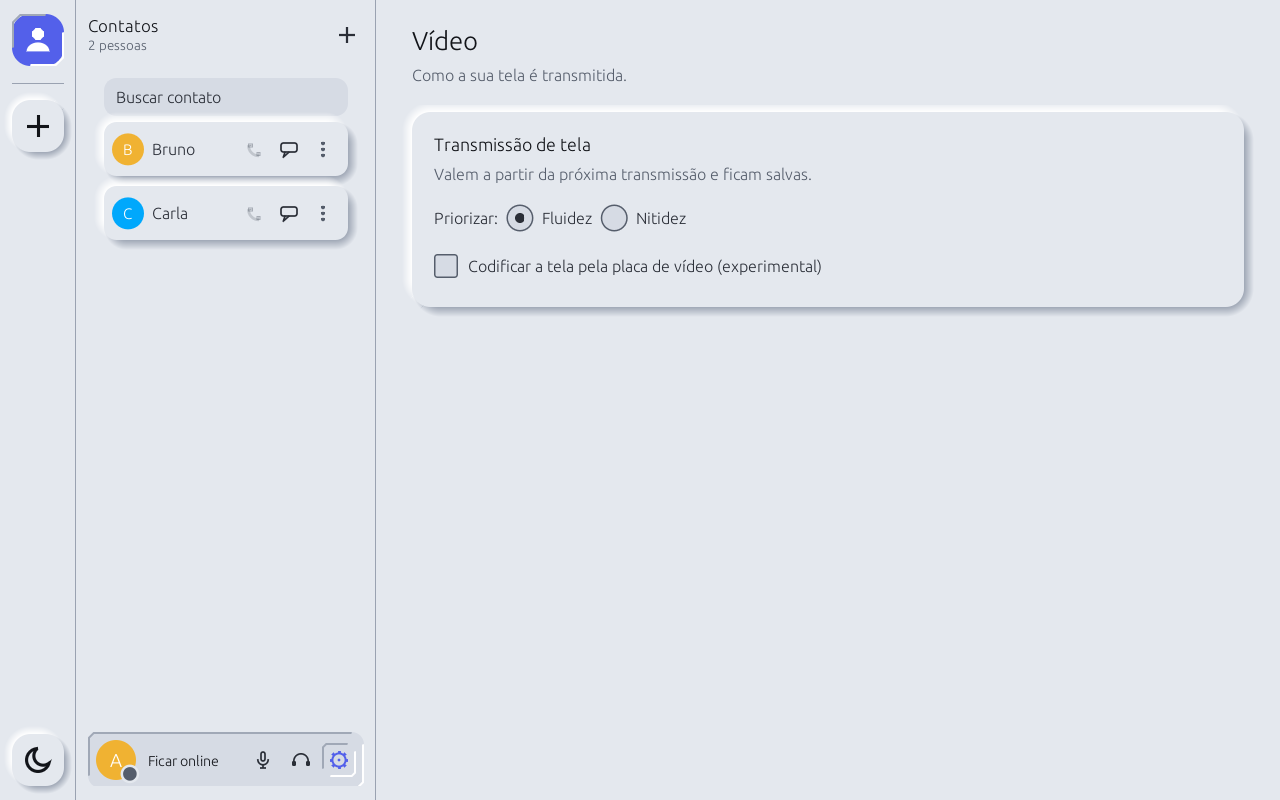
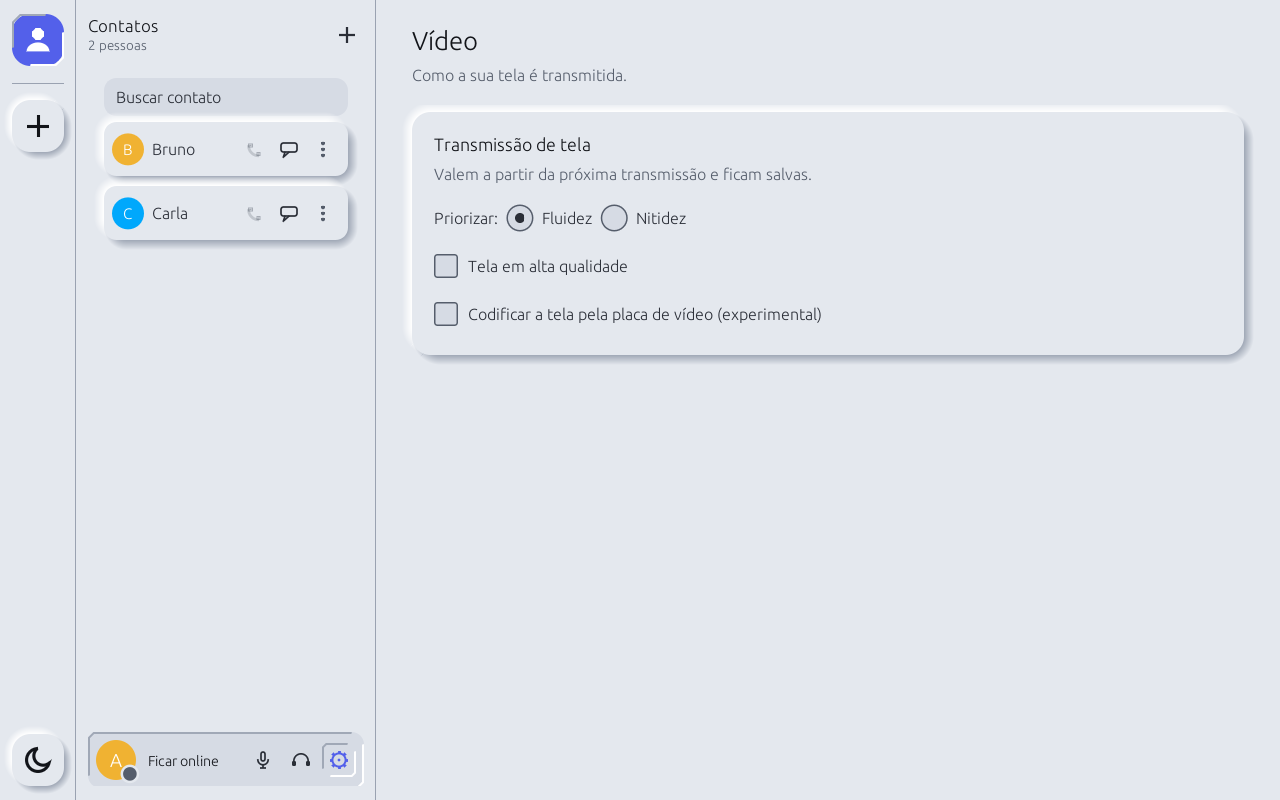
Tela em alta qualidade: slot de 1 ms com cover, o dobro da banda de vídeo sem mudar o que o observador vê
O teto da tela era o slot fixo de 2 ms (~85 kB/s, ~0,6 Mbps de vídeo). A nova opção usa 1 ms mantendo cover e ritmo constante, então o movimento da imagem continua invisível; o custo é 256 kB/s de upload fixos ao transmitir. Vale com ou sem 2 relays e só para a tela (o arquivo tem file_slot próprio). 1 ms é o piso porque o cover do circuito conta em ms. Priorizar velocidade vence quando efetiva. A rajada de recuperação do slot passa a valer só para o slot sem cover.

Changed region(s): [[0.3125, 0.375, 1.0, 0.4375], [0.3438, 0.4375, 0.9688, 0.4688], [0.375, 0.3125, 0.6562, 0.3438]]

diff --git a/tests/node.rs b/tests/node.rs
@@ -817,14 +817,14 @@ async fn an_anchor_lets_two_moved_contacts_find_each_other() {
 
 /// Liga B a A, A transmite a tela e B tem de receber o quadro (opção "2 relays" desligada; ligada, a tela só vai por
 /// encontro, testada à parte). Devolve o caminho tomado e se o quadro chegou igual.
-async fn screen_arrives(two_relays: bool, speed_first: bool) -> (PathMode, bool) {
+async fn screen_arrives(two_relays: bool, speed_first: bool, hq_screen: bool) -> (PathMode, bool) {
     use clam::phone::ScreenEvent;
     let (sa, sb, sc) = (key(), key(), key());
     let (pa, pb, pc) = (*PublicKey::from(&sa).as_bytes(), *PublicKey::from(&sb).as_bytes(), *PublicKey::from(&sc).as_bytes());
     let c = Node::start(fixed(sc, free_port(), vec![pa, pb])).await.unwrap();
     // O relay de C só entra como primeiro salto se A já o conhece (`known`).
-    let a = Node::start(NodeConfig { two_relays, speed_first, known: vec![(pc, c.relay_info().unwrap())], ..fixed(sa, free_port(), vec![pb, pc]) }).await.unwrap();
-    let b = Node::start(NodeConfig { speed_first, ..fixed(sb, free_port(), vec![pa, pc]) }).await.unwrap();
+    let a = Node::start(NodeConfig { two_relays, speed_first, hq_screen, known: vec![(pc, c.relay_info().unwrap())], ..fixed(sa, free_port(), vec![pb, pc]) }).await.unwrap();
+    let b = Node::start(NodeConfig { speed_first, hq_screen, ..fixed(sb, free_port(), vec![pa, pc]) }).await.unwrap();
     // Quem liga é B (opção desligada): com "2 relays" ligada em A a chamada dele seria sempre por encontro, e este teste
     // é do caminho da tela, que segue o relay guardado de B.
     b.add_hint(pa, a.relay_info().unwrap());
@@ -857,16 +857,36 @@ async fn screen_arrives(two_relays: bool, speed_first: bool) -> (PathMode, bool)
     (path, got.as_deref() == Some(frame.as_slice()))
 }
 
+/// "Tela em alta qualidade": o quadro chega, com ou sem "2 relays", no slot de 1 ms e com cover.
+#[tokio::test]
+async fn the_screen_arrives_with_hq_screen_on_and_off() {
+    assert_eq!(screen_arrives(false, false, true).await, (PathMode::Direct, true));
+}
+
+/// Cada opção escolhe o slot certo: alta qualidade só mexe na tela, velocidade vence e mexe no arquivo.
+#[tokio::test]
+async fn slots_follow_the_options() {
+    use clam::phone::{HQ_SCREEN_SLOT, OPEN_SCREEN_SLOT, SCREEN_SLOT};
+    let slots = |speed_first, hq_screen| async move {
+        let n = Node::start(NodeConfig { speed_first, hq_screen, ..fixed(key(), free_port(), vec![]) }).await.unwrap();
+        (n.dialer().screen_slot(), n.dialer().file_slot())
+    };
+    assert_eq!(slots(false, false).await, (SCREEN_SLOT, SCREEN_SLOT));
+    assert_eq!(slots(false, true).await, (HQ_SCREEN_SLOT, SCREEN_SLOT), "alta qualidade não toca o arquivo");
+    assert_eq!(slots(true, false).await, (OPEN_SCREEN_SLOT, OPEN_SCREEN_SLOT));
+    assert_eq!(slots(true, true).await, (OPEN_SCREEN_SLOT, OPEN_SCREEN_SLOT), "velocidade vence");
+}
+
 /// Opção desligada: a tela vai direto ao relay do contato, sem relay no meio.
 #[tokio::test]
 async fn the_screen_goes_straight_to_the_contact_when_two_relays_is_off() {
-    assert_eq!(screen_arrives(false, false).await, (PathMode::Direct, true));
+    assert_eq!(screen_arrives(false, false, false).await, (PathMode::Direct, true));
 }
 
 /// "Priorizar velocidade" (chamada e tela sem cover, slot rápido): a chamada abre e o quadro de tela chega igual.
 #[tokio::test]
 async fn the_call_and_the_screen_work_with_speed_first() {
-    assert_eq!(screen_arrives(false, true).await, (PathMode::Direct, true));
+    assert_eq!(screen_arrives(false, true, false).await, (PathMode::Direct, true));
 }
 
 /// Opção ligada e o contato sem pontos de introdução: o circuito de tela não abre e não usa o relay guardado dele (que
@@ -951,6 +971,10 @@ struct Blind {
 }
 
 async fn blind_pair() -> Blind {
+    blind_pair_hq(false).await
+}
+
+async fn blind_pair_hq(hq_screen: bool) -> Blind {
     use clam::rendezvous::DhtOptions;
     let testnet = Box::leak(Box::new(mainline::Testnet::new(5).unwrap()));
     let dht = || Some(DhtOptions { bootstrap: testnet.bootstrap.clone(), bind: Some(std::net::Ipv4Addr::LOCALHOST), circuit: false });
@@ -964,7 +988,7 @@ async fn blind_pair() -> Blind {
         relays.push((p, n.relay_info().unwrap()));
         others.push(n);
     }
-    let cfg = |s, contacts| NodeConfig { updates: false, two_relays: true, dht: dht(), known: relays.clone(), ..fixed(s, free_port(), contacts) };
+    let cfg = |s, contacts| NodeConfig { updates: false, two_relays: true, hq_screen, dht: dht(), known: relays.clone(), ..fixed(s, free_port(), contacts) };
     let a = Node::start(cfg(sa, vec![pb, pc, pd, pe])).await.unwrap();
     let b = Node::start(cfg(sb, vec![pa, pc, pd, pe])).await.unwrap();
     // Cada um sobe o serviço e grava a presença em segundo plano: espera os dois acharem os pontos um do outro.
@@ -1007,8 +1031,19 @@ async fn chat_and_files_with_two_relays_on_arrive_without_knowing_the_address() 
 /// Com "2 relays" ligada, a tela de A chega a B por encontro (um circuito só dela, com o cover no ritmo dos slots).
 #[tokio::test]
 async fn the_screen_with_two_relays_on_arrives_without_knowing_the_address() {
+    screen_over_two_relays(false).await;
+}
+
+/// "Tela em alta qualidade" também vale com "2 relays" ligada: o quadro chega por encontro, com cover.
+#[tokio::test]
+async fn the_hq_screen_arrives_with_two_relays_on() {
+    screen_over_two_relays(true).await;
+}
+
+async fn screen_over_two_relays(hq_screen: bool) {
     use clam::phone::ScreenEvent;
-    let Blind { a, mut b, pb, _others, .. } = blind_pair().await;
+    let Blind { a, mut b, pb, _others, .. } = blind_pair_hq(hq_screen).await;
+    assert_eq!(a.dialer().hq_screen(), hq_screen);
     let answer = tokio::spawn(async move {
         let inc = timeout(Duration::from_secs(60), b.next_incoming()).await.unwrap().unwrap();
         (inc.accept(Mulaw::new()).await.unwrap(), b)

diff --git a/src/node/dialer.rs b/src/node/dialer.rs
@@ -15,7 +15,7 @@ use crate::{
         codec::Codec,
         keys::CallKeys,
     },
-    phone::{ActiveCall, AddressUpdate, CallError, PhoneLink, ScreenShare, call_linked, screen_client_options, share_screen_slot, OPEN_SCREEN_SLOT, SCREEN_SLOT},
+    phone::{ActiveCall, AddressUpdate, CallError, PhoneLink, ScreenShare, call_linked, screen_client_options, screen_client_options_hq, share_screen_slot, HQ_SCREEN_SLOT, OPEN_SCREEN_SLOT, SCREEN_SLOT},
     rendezvous::Rendezvous,
     transport::{CircuitClient, ClientOptions},
 };
@@ -61,6 +61,8 @@ pub struct Dialer {
     pub(super) two_relays: bool,
     /// "Priorizar velocidade" já efetiva (veja [`NodeConfig::speed_first`]): só vale com "2 relays" desligada.
     pub(super) speed_first: bool,
+    /// "Tela em alta qualidade" (veja [`NodeConfig::hq_screen`]): vale com ou sem "2 relays".
+    pub(super) hq_screen: bool,
     /// Último carimbo de bate-papo usado (veja [`Dialer::next_chat_id`]).
     pub(super) chat_stamp: Arc<std::sync::atomic::AtomicU64>,
 }
@@ -263,7 +265,8 @@ impl Dialer {
     ///
     /// Como [`Self::share_screen`].
     pub async fn share_screen_keys(&self, peer: [u8; 32], keys: &CallKeys, wait: Duration) -> Result<ScreenShare, DialError> {
-        let (client, used) = self.open_circuit(&peer, screen_client_options).await?;
+        let options = if self.hq_screen() { screen_client_options_hq } else { screen_client_options };
+        let (client, used) = self.open_circuit(&peer, options).await?;
         let share = share_screen_slot(client, keys, wait, self.screen_slot()).await?;
         self.remember_used(&peer, used);
         Ok(share)
@@ -275,10 +278,29 @@ impl Dialer {
         self.speed_first
     }
 
-    /// Intervalo entre pacotes da tela e do arquivo: [`SCREEN_SLOT`] no ritmo constante, [`OPEN_SCREEN_SLOT`] com
-    /// "Priorizar velocidade". Quem codifica vídeo usa o mesmo valor em [`H264Encoder::bitrate_for`](crate::video::H264Encoder::bitrate_for).
+    /// Se "Tela em alta qualidade" está valendo: ligada e sem "Priorizar velocidade" efetiva (que já usa um slot menor).
+    #[must_use]
+    pub fn hq_screen(&self) -> bool {
+        self.hq_screen && !self.speed_first
+    }
+
+    /// Intervalo entre pacotes da tela: [`SCREEN_SLOT`] no ritmo constante, [`HQ_SCREEN_SLOT`] com "Tela em alta
+    /// qualidade" (ainda com cover) e [`OPEN_SCREEN_SLOT`] com "Priorizar velocidade". Quem codifica vídeo usa o mesmo
+    /// valor em [`H264Encoder::bitrate_for`](crate::video::H264Encoder::bitrate_for).
     #[must_use]
     pub fn screen_slot(&self) -> Duration {
+        if self.speed_first {
+            OPEN_SCREEN_SLOT
+        } else if self.hq_screen {
+            HQ_SCREEN_SLOT
+        } else {
+            SCREEN_SLOT
+        }
+    }
+
+    /// Intervalo entre pedaços de arquivo: só "Priorizar velocidade" o muda; a alta qualidade da tela não toca o arquivo.
+    #[must_use]
+    pub fn file_slot(&self) -> Duration {
         if self.speed_first { OPEN_SCREEN_SLOT } else { SCREEN_SLOT }
     }
 

diff --git a/examples/gui/conf.rs b/examples/gui/conf.rs
@@ -118,6 +118,8 @@ pub(crate) struct Form {
     /// Opção "Priorizar velocidade" (veja `NodeConfig::speed_first`): tira o ritmo constante de todos os fluxos. Só vale com
     /// "2 relays" desligada; desligada (padrão) mantém o tráfego constante.
     pub(crate) speed_first: bool,
+    /// Opção "Tela em alta qualidade" (veja `NodeConfig::hq_screen`): slot de 1 ms com cover. Vale ao reiniciar a conexão.
+    pub(crate) hq_screen: bool,
     /// Chaves bloqueadas, em hex (com `=nome` opcional) separadas por `;`: não voltam como contato sozinhas, por apresentação ou convite
     /// (veja `Node::block`). Só adicionar a chave de novo, de propósito, desbloqueia.
     pub(crate) blocked: String,
@@ -557,6 +559,7 @@ impl Form {
             // `dht_circuit` era a caixa própria da DHT; agora a opção é uma só, e quem a tinha ligada fica com "2 relays" ligada.
             two_relays: get("two_relays") == "1" || get("dht_circuit") == "1",
             speed_first: get("speed_first") == "1",
+            hq_screen: get("hq_screen") == "1",
             blocked: get("blocked"),
             light: match get("light").as_str() {
                 "1" => Some(true),
@@ -595,7 +598,7 @@ impl Form {
         let secret = self.secret_to_write(vault_set);
         let secret = secret.as_str();
         let text = format!(
-            "audio={}\nsecret={}\ncontacts={}\npeer={}\npublic_addr={}\nno_dht={}\nname={}\nintros={}\nno_anchor={}\ntwo_relays={}\nspeed_first={}\nscreen_sharp={}\nscreen_hardware={}\nno_screen_audio={}\nno_screen_hear={}\nanchors={}\ninput_dev={}\noutput_dev={}\nno_opus={}\nno_auto_online={}\nblocked={}\nlight={}\nmute_key={}\ndeafen_key={}\nauto_files={}\n{}",
+            "audio={}\nsecret={}\ncontacts={}\npeer={}\npublic_addr={}\nno_dht={}\nname={}\nintros={}\nno_anchor={}\ntwo_relays={}\nspeed_first={}\nhq_screen={}\nscreen_sharp={}\nscreen_hardware={}\nno_screen_audio={}\nno_screen_hear={}\nanchors={}\ninput_dev={}\noutput_dev={}\nno_opus={}\nno_auto_online={}\nblocked={}\nlight={}\nmute_key={}\ndeafen_key={}\nauto_files={}\n{}",
             u8::from(self.use_audio),
             secret,
             self.contacts.trim().replace('\n', ";"),
@@ -607,6 +610,7 @@ impl Form {
             u8::from(!self.anchor),
             u8::from(self.two_relays),
             u8::from(self.speed_first),
+            u8::from(self.hq_screen),
             u8::from(self.screen_sharp),
             u8::from(self.screen_hardware),
             u8::from(!self.screen_audio),
@@ -927,6 +931,7 @@ mod tests {
     fn speed_first_starts_off() {
         assert!(!Form::default().speed_first);
         assert!(!Form::first_run().speed_first);
+        assert!(!Form::default().hq_screen && !Form::first_run().hq_screen, "tela em alta qualidade também abre desligada");
     }
 
     #[test]

diff --git a/src/phone.rs b/src/phone.rs
@@ -65,6 +65,10 @@ pub const SCREEN_SLOT: Duration = Duration::from_millis(2);
 /// Intervalo entre pacotes da tela e do arquivo com "Priorizar velocidade" (sem cover): 2000 pacotes/s, 512 kB/s no
 /// fio, abaixo do teto de 800 kB/s por circuito do relay (`RelayConfig::circuit_bytes_per_sec`).
 pub const OPEN_SCREEN_SLOT: Duration = Duration::from_micros(500);
+/// Intervalo entre pacotes da tela com "Tela em alta qualidade": 1000 pacotes/s, ≈ 1,2 Mbps de vídeo, **com** cover e
+/// ritmo constante (o observador não vê o movimento). 1 ms é o menor intervalo do cover do circuito, que conta em
+/// milissegundos; custa 256 kB/s de upload fixos enquanto a tela é transmitida.
+pub const HQ_SCREEN_SLOT: Duration = Duration::from_millis(1);
 /// Pacotes seguidos que o slot rápido pode mandar de uma vez para recuperar atraso do relógio (o temporizador do
 /// sistema acorda a cada 1 ms, ou pior, e o intervalo é menor que isso).
 const OPEN_SCREEN_BURST: f64 = 8.0;
@@ -493,7 +497,16 @@ async fn forward_extra(linked: &Option<(u64, PhoneLink)>, out: WireOut) {
 /// Opções do cliente de circuito da tela: cover de circuito e de link no ritmo dos slots.
 #[must_use]
 pub fn screen_client_options() -> ClientOptions {
-    let every = SCREEN_SLOT;
+    screen_options_at(SCREEN_SLOT)
+}
+
+/// Como [`screen_client_options`], no slot de "Tela em alta qualidade" ([`HQ_SCREEN_SLOT`]): continua com cover.
+#[must_use]
+pub fn screen_client_options_hq() -> ClientOptions {
+    screen_options_at(HQ_SCREEN_SLOT)
+}
+
+fn screen_options_at(every: Duration) -> ClientOptions {
     ClientOptions { cover: Some(every), circuit_cover: Some(every), ..Default::default() }
 }
 
@@ -612,8 +625,9 @@ pub async fn share_screen_slot(mut client: CircuitClient, keys: &CallKeys, wait:
     .await
     .map_err(|_| CallError::NoCircuit)??;
 
-    // Com cover o circuito só aceita um pacote por intervalo; o slot rápido não tem cover e pode recuperar atraso.
-    let max_burst = if slot < SCREEN_SLOT { OPEN_SCREEN_BURST } else { 1.0 };
+    // Com cover o circuito só aceita um pacote por intervalo (inclusive o de alta qualidade); só o slot rápido, sem
+    // cover, pode recuperar atraso.
+    let max_burst = if slot <= OPEN_SCREEN_SLOT { OPEN_SCREEN_BURST } else { 1.0 };
     let stream = Arc::new(Mutex::new(ScreenStream::new(keys)));
     let stopping = Arc::new(AtomicBool::new(false));
     let hello = stream.lock_unpoisoned().next_packet()?;

diff --git a/src/node/mod.rs b/src/node/mod.rs
@@ -250,7 +250,7 @@ impl Node {
     }
 
     async fn finish(cfg: NodeConfig, mut phone: Phone, relay: RelayServer, onion: [u8; 32], dht: Services) -> io::Result<Self> {
-        let NodeConfig { secret, public_addr, upnp, known, hints, history, updates, update_retry, dht: dht_options, name, introductions, anchors, servers: saved_servers, custody: saved_custody, mail_poll, tombstones, blocked, two_relays, speed_first, .. } = cfg;
+        let NodeConfig { secret, public_addr, upnp, known, hints, history, updates, update_retry, dht: dht_options, name, introductions, anchors, servers: saved_servers, custody: saved_custody, mail_poll, tombstones, blocked, two_relays, speed_first, hq_screen, .. } = cfg;
         let known: Known = Arc::new(Mutex::new(known.into_iter().collect()));
         let hints: Known = Arc::new(Mutex::new(hints.into_iter().collect()));
         // A lista guarda do mais novo ao mais velho de cada contato; ao reler, a ordem se mantém.
@@ -286,7 +286,7 @@ impl Node {
         if let Some(n) = dht_note {
             push_note(&mut note, n);
         }
-        let dialer = Dialer { secret: secret.clone(), mine: mine.clone(), relay_port: port, known: known.clone(), hints: hints.clone(), history: history.clone(), seen_seq: Arc::default(), link: phone.link(), dht: dht_client.clone(), dht_circuit: dht_options.as_ref().is_some_and(|o| o.circuit), anchors, two_relays, speed_first: speed_first && !two_relays, chat_stamp: Arc::default() };
+        let dialer = Dialer { secret: secret.clone(), mine: mine.clone(), relay_port: port, known: known.clone(), hints: hints.clone(), history: history.clone(), seen_seq: Arc::default(), link: phone.link(), dht: dht_client.clone(), dht_circuit: dht_options.as_ref().is_some_and(|o| o.circuit), anchors, two_relays, speed_first: speed_first && !two_relays, hq_screen, chat_stamp: Arc::default() };
         // Os convites levam este relay, para o outro lado ligar de volta.
         let link_to_phone = phone.link();
         let own = Arc::new(Mutex::new(own_relay(&mine, published)));

diff --git a/src/node/config.rs b/src/node/config.rs
@@ -79,6 +79,11 @@ pub struct NodeConfig {
     /// chamada, voz, arquivo e tela, e o tamanho da rajada (veja `docs/SEGURANCA.md`). Com "2 relays" ligada é
     /// ignorada: a privacidade não se perde em silêncio. Padrão: desligada.
     pub speed_first: bool,
+    /// Opção "Tela em alta qualidade": a tela anda no slot de [`HQ_SCREEN_SLOT`](crate::phone::HQ_SCREEN_SLOT) (1 ms
+    /// em vez de 2 ms), com o dobro da banda de vídeo, **mantendo** cover e ritmo constante: o observador não vê o
+    /// movimento. O custo é 256 kB/s de upload fixos enquanto a tela é transmitida. Vale com ou sem "2 relays";
+    /// com "Priorizar velocidade" efetiva, esta fica sem efeito (o slot rápido já é maior). Padrão: desligada.
+    pub hq_screen: bool,
 }
 
 /// Segredos do relay do nó: o do circuito (`onion`) e o do link (Noise NK).
@@ -98,6 +103,6 @@ impl RelayKeys {
 impl NodeConfig {
     #[must_use]
     pub fn new(secret: StaticSecret, contacts: Vec<[u8; 32]>) -> Self {
-        Self { secret, contacts, relay_port: DEFAULT_RELAY_PORT, public_addr: None, upnp: true, known: Vec::new(), hints: Vec::new(), relay_keys: None, history: Vec::new(), updates: true, update_retry: UPDATE_RETRY, dht: None, name: String::new(), introductions: true, anchor: false, anchors: Vec::new(), servers: None, custody: Vec::new(), tombstones: Vec::new(), blocked: Vec::new(), mail_poll: MAIL_POLL, two_relays: false, speed_first: false }
+        Self { secret, contacts, relay_port: DEFAULT_RELAY_PORT, public_addr: None, upnp: true, known: Vec::new(), hints: Vec::new(), relay_keys: None, history: Vec::new(), updates: true, update_retry: UPDATE_RETRY, dht: None, name: String::new(), introductions: true, anchor: false, anchors: Vec::new(), servers: None, custody: Vec::new(), tombstones: Vec::new(), blocked: Vec::new(), mail_poll: MAIL_POLL, two_relays: false, speed_first: false, hq_screen: false }
     }
 }

diff --git a/examples/gui/media.rs b/examples/gui/media.rs
@@ -31,6 +31,13 @@ impl App {
                     }
                 });
                 if ui
+                    .check(&mut self.form.hq_screen, "Tela em alta qualidade")
+                    .on_hover_text("Dobra a banda de vídeo da tela (de ~0,6 para ~1,2 Mbps), com o mesmo tráfego constante: quem observa a rede continua sem ver quando a imagem se mexe. Em troca, a transmissão ocupa 256 kB/s (~2 Mbps) de upload o tempo todo, mesmo com a tela parada; com menos upload que isso, prejudica a voz. Vale ao reiniciar a conexão. Com “Priorizar velocidade” ligada (sem “2 relays”) ela já é superada por um slot ainda menor.")
+                    .changed()
+                {
+                    self.form.save();
+                }
+                if ui
                     .check(&mut self.form.screen_hardware, "Codificar a tela pela placa de vídeo (experimental)")
                     .on_hover_text("Usa a GPU (VA-API, NVENC ou Quick Sync, via GStreamer) em vez do processador. Precisa de gstreamer1.0-tools e gstreamer1.0-plugins-bad com o driver da GPU; sem isso, ou se ela parar, o programa volta sozinho ao openh264. Menos CPU, mas sem o controle fino de nitidez por quadro, e a imagem pode demorar um pouco mais a reagir. Não funciona no Windows. Vale na próxima transmissão.")
                     .changed()

diff --git a/src/node/deliver.rs b/src/node/deliver.rs
@@ -96,7 +96,7 @@ impl Dialer {
         let stream = update::FileStream::sending(&self.secret, &pk, id)?;
         let (found, _) = self.reachable_client(&peer, crate::phone::screen_client_options).await;
         let (client, used) = found?;
-        Some(FilePipe { client, used, secret: self.secret.clone(), pk, stream, bound: false, slot: self.screen_slot(), next_slot: tokio::time::Instant::now() })
+        Some(FilePipe { client, used, secret: self.secret.clone(), pk, stream, bound: false, slot: self.file_slot(), next_slot: tokio::time::Instant::now() })
     }
 
     /// Guarda `used` como o endereço que funcionou para `peer` (o arquivo chegou).
@@ -204,7 +204,7 @@ pub struct FilePipe {
     stream: update::FileStream,
     /// O primeiro ack chegou: o telefone já ligou o circuito à transferência, e o `Bind` não precisa mais sair.
     bound: bool,
-    /// Intervalo entre pedaços ([`Dialer::screen_slot`]): o ritmo constante da tela ou o rápido.
+    /// Intervalo entre pedaços ([`Dialer::file_slot`]): o ritmo constante da tela ou o rápido.
     slot: Duration,
     /// Quando o próximo lote pode sair. Conta por prazo, não por espera fixa: o tempo gasto lendo o disco ou tratando
     /// acks não pode atrasar o ritmo (nem deixar a fila do cover esvaziar).

diff --git a/examples/gui/engine/node.rs b/examples/gui/engine/node.rs
@@ -35,6 +35,10 @@ pub(crate) async fn run_node(form: Form, mut rx: mpsc::UnboundedReceiver<Cmd>, s
     cfg.blocked = form.blocked_keys();
     cfg.two_relays = form.two_relays;
     cfg.speed_first = form.speed_first && !form.two_relays;
+    cfg.hq_screen = form.hq_screen;
+    if cfg.hq_screen && !cfg.speed_first {
+        out.line("tela em alta qualidade: pacotes a cada 1 ms, com cover (256 kB/s de upload fixos ao transmitir)");
+    }
     if cfg.speed_first {
         out.line("velocidade priorizada: sem ritmo constante; quem observa a rede vê quando e quanto você envia");
     }

diff --git a/docs/GUI.md b/docs/GUI.md
@@ -17,7 +17,7 @@ A janela segue o layout do Discord e o visual neomórfico (soft UI: uma cor base
 | **Chamada** | *Ligar para um código* (sem chamada; um cartão só, sem cartão de "nenhuma chamada"); ao lado do avatar do perfil, offline, o texto *Ficar online* (clicável) diz o estado e a ação; a conversa (chamar ou atender não troca de aba; compartilhar a tela e o mudo ficam só na barra do pé, sem botão aqui), só o bate-papo (sem cartões de estado, privacidade ou desligar: isso fica na barra do pé). Quem transmite aparece com o monitor verde na linha dele na lista de contatos, junto dos outros ícones (bate-papo, telefone); clicar assiste (tela cheia, sem miniatura), onde o som da tela toca e fica a chave de ouvir (enviar o seu som é perguntado ao começar a transmitir) (🔍; a janela do app vai a tela cheia e a imagem ocupa tudo; sai pelo X no canto ou pelo Esc) |
 | **Vídeo** | *Transmissão de tela*: privacidade, *Priorizar* fluidez ou nitidez e codificar pela placa de vídeo; valem da próxima transmissão, na chamada e nas salas. A linha de diagnóstico da transmissão traz "som: capturados N (M com som), enviados N, recebidos N, tocados N", que diz em que etapa o som parou (capturado sem som é o monitor errado ou nada tocando), e a falha ao abrir a captura (sem `gst-launch-1.0` ou saída padrão) aparece na janela, não só no log. O som da tela não fica aqui: o envio do som do computador é perguntado numa janela *Transmitir a tela* (título à esquerda, sem barra de título; chave de som (começa ligada a cada transmissão), monitor para transmitir e X, com o nome no hover; Esc cancela, Enter transmite; sem aviso fixo na janela: com a privacidade desligada, o hover da chave diz que quem observa a rede vê quando há som) toda vez que se começa a transmitir, na chamada e na sala, e só ali; ouvir (*Ouvir o som das telas*, alto-falante riscado quando desligado) só existe dentro da tela cheia, depois de abrir a transmissão (na chamada e na sala), e vale na hora (enviar existe no Linux e no Windows; ver [CHAMADAS.md](CHAMADAS.md#transmissão-de-tela-clammediascreen-clamphone)) |
 | **Áudio** | *Dispositivos* (usar microfone e alto-falante, escolha dos dois), *Volume e microfone* (mudo, volume, ganho, medidor, sensibilidade, teste) e três cartões de tratamento da voz: *Ruído* (remover ruído, silenciar o que não é voz e o quanto abaixar, cortar graves), *Eco* (cancelar e abaixar o microfone) e *Nível e formato* (volume automático, Opus, restaurar padrões) |
-| **Configurações** | *Conexão* (Ficar online / offline, o estado e a caixa *Tentar ficar online ao abrir o programa*, ligada por padrão; desmarcar grava `no_auto_online=1` em `~/.clam-gui.conf`), *Meu código de contato* (com *Copiar o código*), *Identidade* (a chave secreta, oculta; *Gerar nova identidade*), *Seu nome*, *Endereço* público, *Priorizar velocidade* (caixa logo abaixo de "2 relays", desligada de início; grava `speed_first=1`; tira o ritmo constante de todos os fluxos, com nota visível quando ligada, e fica desligada e ignorada com "2 relays" ligada; veja [SEGURANCA.md](SEGURANCA.md)), *2 relays* (caixa "Passar as ligações por relays de outros contatos", desligada de início; grava `two_relays=1` em `~/.clam-gui.conf`; desligada, a conexão é direta e o contato e quem observa a rede veem o seu IP, e a nota do card diz isso; ligada, sem relay de outro contato a ligação falha em vez de ir direto, a chamada de voz vai por introdução e encontro quando o contato também usa a opção (sem pontos dele a chamada falha com o motivo, sem usar o endereço) e o seu endereço deixa de ser entregue e gravado; tela, bate-papo e arquivos ainda usam o relay guardado; vale a partir da próxima ligação), *Encontrar contatos* (DHT, circuito da DHT, aceitar apresentações) e *Âncoras* (servir de âncora, as que você usa e o código da sua) |
+| **Configurações** | *Conexão* (Ficar online / offline, o estado e a caixa *Tentar ficar online ao abrir o programa*, ligada por padrão; desmarcar grava `no_auto_online=1` em `~/.clam-gui.conf`), *Meu código de contato* (com *Copiar o código*), *Identidade* (a chave secreta, oculta; *Gerar nova identidade*), *Seu nome*, *Endereço* público, *Tela em alta qualidade* (em *Transmissão de tela*, desligada de início; grava `hq_screen=1`; slot de 1 ms com cover, o dobro da banda de vídeo e 256 kB/s de upload fixos; veja [CHAMADAS.md](CHAMADAS.md)), *Priorizar velocidade* (caixa logo abaixo de "2 relays", desligada de início; grava `speed_first=1`; tira o ritmo constante de todos os fluxos, com nota visível quando ligada, e fica desligada e ignorada com "2 relays" ligada; veja [SEGURANCA.md](SEGURANCA.md)), *2 relays* (caixa "Passar as ligações por relays de outros contatos", desligada de início; grava `two_relays=1` em `~/.clam-gui.conf`; desligada, a conexão é direta e o contato e quem observa a rede veem o seu IP, e a nota do card diz isso; ligada, sem relay de outro contato a ligação falha em vez de ir direto, a chamada de voz vai por introdução e encontro quando o contato também usa a opção (sem pontos dele a chamada falha com o motivo, sem usar o endereço) e o seu endereço deixa de ser entregue e gravado; tela, bate-papo e arquivos ainda usam o relay guardado; vale a partir da próxima ligação), *Encontrar contatos* (DHT, circuito da DHT, aceitar apresentações) e *Âncoras* (servir de âncora, as que você usa e o código da sua) |
 | **Atividade** | O registro do que o programa está fazendo (avisos de endereço, apresentações, erros, e uma linha de tempos por arquivo enviado: aceite, abertura do circuito, primeiro ack, reenvios, KB/s); vazio, é um cartão curto (*Nada ainda*), não um poço de altura cheia |
 
 Tudo o que a janela guarda fica em `~/.clam-gui.conf` e nos arquivos ao lado (`.clam-gui.known`, `.clam-gui.relay`, `.clam-gui.intro`, `.clam-gui.removed`, `.clam-gui.servers`); a chave secreta vai para o chaveiro do sistema, quando há ([SEGURANCA.md](SEGURANCA.md#chaveiro)). Se o chaveiro não responde, a janela avisa em *Identidade* e não cria uma identidade nova no lugar.

diff --git a/docs/CHAMADAS.md b/docs/CHAMADAS.md
@@ -94,6 +94,7 @@ let mut chamada = call(cliente, &minha_chave, &chave_do_contato, Mulaw::new(), D
 A tela anda num **circuito só dela**, aberto por quem transmite até o telefone de quem assiste, com cover de 2 ms nos links e no circuito (500 pacotes/s, capacidade de 684 kbps de vídeo e orçamento do codec de ≈ 615 kbps; veja `phone::SCREEN_SLOT`). O ritmo é constante: parar a tela, mexer o mouse ou trocar de janela não muda nada no fio. O codec fica dentro de `ScreenStream::capacity_bps`.
 
 - **Caminho da tela: a opção "2 relays".** Não há mais tela "sem privacidade", nem marca de contato de confiança: a tela segue a mesma opção de Configurações que vale para a chamada, o bate-papo e os arquivos (`NodeConfig::two_relays`, desligada de início; `path::PathMode::from_two_relays`). O circuito da tela é sempre o mesmo, com cover no ritmo do slot (`phone::SCREEN_SLOT`, 2 ms; `Dialer::share_screen_keys`). **Ligada**, o primeiro salto é o relay de **outro contato** (`Dialer::third_party_relays`, que sorteia entre os conhecidos sem o par, sem a saída e sem o seu próprio relay), e quem assiste vê o IP desse relay, não o seu; sem nenhum, a ligação falha com `DialError::NoRelays` e nunca cai para o caminho direto. **Desligada**, o circuito é **direto**, de um salto só, ao relay do contato (`ClientOptions::direct`, `ManagerConfig::direct`; sem relay falso em loopback no meio, e o relay aceita `Begin` e `Drop` no salto 0 quando é o último do circuito): o contato e quem observa a rede veem o seu IP, e a interface diz isso na caixa da opção. O circuito direto não tem reserva nem volta aos 2 saltos; um relay de versão antiga derruba o circuito direto no `Begin`, e a tela não abre com ele (a nova tentativa espera 500 ms). Ligada, o IP de quem **recebe** ainda é o do relay do contato, que é o primeiro e o último salto de quem o serve: esconder o IP dos dois lados exige as camadas B e C de [DOIS-RELAYS.md](DOIS-RELAYS.md), ainda não feitas. A opção vale a partir da próxima ligação e fica em `two_relays=1` no `.clam-gui.conf`.
+- **Tela em alta qualidade.** Opção (Transmissão de tela, desligada de início; `NodeConfig::hq_screen`) que usa o slot de 1 ms (`HQ_SCREEN_SLOT`) em vez de 2 ms: o dobro da banda de vídeo (~1,2 Mbps contra ~0,6) com **cover e ritmo constante mantidos**, então o observador continua sem ver o movimento. Vale com ou sem "2 relays", só para a tela (arquivo e voz não mudam) e ao reiniciar a conexão. Custo: 256 kB/s de upload fixos durante a transmissão, mesmo com a tela parada. 1 ms é o piso porque o cover do circuito conta em milissegundos (`ManagerConfig::cover_ms`); passar disso exige cover em microssegundos. Com "Priorizar velocidade" efetiva ela fica sem efeito (o slot de 0,5 ms já vale). Limite: o temporizador do sistema precisa acordar a cada 1 ms (no Windows sem timer de alta resolução o ritmo pode cair e a banda sobrar).
 - **Fluidez ou nitidez.** A taxa de bits é uma só; a escolha é como repartir: `video::Priority::Smoothness` (padrão) manda `fps_for(taxa)` quadros por segundo (15) e `Priority::Sharpness` manda a metade, com o dobro de bits em cada quadro (`H264Encoder::with_priority`). Fluidez serve a jogo e vídeo; nitidez, a texto, código e slides, onde pouca coisa muda por instante e cada quadro fica bem mais fino. Na GUI são os botões "Priorizar: Fluidez / Nitidez" na aba Vídeo (fluidez de início; nitidez grava `screen_sharp=1` no `.clam-gui.conf`), que valem a partir da próxima transmissão.
 - **Som do computador.** `ScreenShare::push_audio` envia um quadro Opus de 20 ms; `ScreenEvent::Audio(ScreenAudio)` o entrega a quem assiste, em ordem de `seq`, depois do quadro de vídeo ao qual está amarrado (ou após 1,5 s). Formato, orçamento e flag em [COMUNICACAO.md](COMUNICACAO.md#transmissão-de-tela). Captura e exclusão do som do programa: `sysaudio::SystemAudio` (Linux: monitor da saída padrão via `gst-launch-1.0`; Windows: loopback do WASAPI na saída padrão pelo `cpal`, numa thread que é dona do stream) + `Excluder` (NLMS de 3200 taps a 16 kHz, referência = o que `Audio::speaker_reference` viu sair pelo alto-falante). Os dois botões de ícone (enviar e ouvir, `theme::sound_toggle`) começam ligadas e ficam sempre à vista no card "Som da tela" (`App::screen_sound_toggles`, na chamada e na sala), não nas configurações; `engine::follow_audio_switch` abre e solta a captura durante a transmissão, e a taxa do vídeo só desconta a fatia do som ao começar. Na GUI, `Audio::play_mix` soma o som de tela recebido ao que já toca, a cada 20 ms. Limites: Linux (exige `gstreamer1.0-tools` com o `pulsesrc`; o `pactl` é opcional) e Windows (sem dependência extra; o loopback não entrega nada enquanto nada é renderizado, então a captura toca silêncio de apoio na mesma saída para o mixer não parar, e o erro do stream aparece na nota da janela, e vale a saída padrão no momento de abrir: trocar de saída no meio da transmissão exige desligar e ligar o botão); macOS não tem; o filtro é linear e deixa um resto fraco da voz do contato (≈ −22 dB no teste sintético), com fones some; o Opus em modo voz degrada música; atraso e deriva de relógio entre captura e alto-falante limitam o cancelamento. Testado com sinais sintéticos; hardware de áudio real não foi exercitado.
 - Chaves: `CallKeys::sub` deriva, das chaves da chamada, um par por sentido de quem transmite (`screen/caller` ou `screen/callee`), então os dois lados podem transmitir ao mesmo tempo sem reusar nonce.

diff --git a/docs/SEGURANCA.md b/docs/SEGURANCA.md
@@ -27,7 +27,7 @@ Garantias e limites, limitações conhecidas e chaveiro.
 - Arquivos privados (`0600`): o temporário que precede o `rename` é apagado e recriado com `create_new`, pois o modo só vale na criação.
 - Vídeo: o decodificador recusa imagem maior que `MAX_DECODED_PIXELS` (1920x2160), pois as dimensões vêm do quadro-chave de quem transmite e decidiriam quanta memória alocamos. O openh264 ainda aloca os próprios buffers internos pelo tamanho que o quadro-chave declara; esse teto é o dele.
 - **Opção "Priorizar velocidade" (Configurações, desligada de início).** Vale para todo fluxo (voz, bate-papo, arquivos, tela, sondagem de presença, salas) e só **sem "2 relays"**: com "2 relays" ligada ela é ignorada (`NodeConfig::speed_first` e `Dialer` a zeram), porque perder o ritmo constante junto com o esconderijo do IP seria perda silenciosa de proteção. Ligada, quem abre o circuito (`ClientOptions { cover: None, circuit_cover: None, profile: None }`) desliga o cover nos dois sentidos, e o slot da tela cai de 2 ms para 0,5 ms (`OPEN_SCREEN_SLOT`, 512 kB/s na rede, abaixo do teto de 800 kB/s por circuito do relay). Medido em loopback: arquivo de ~80 para ~290 kB/s. **O que um observador passa a ver** (além do IP, que o modo direto já mostra): quando uma chamada, arquivo ou tela começa e termina, fala e silêncio, o tamanho aproximado de um arquivo pelo volume da rajada e o movimento da tela. Conteúdo, nome do arquivo e chave do destino seguem cifrados. A interface avisa na própria caixa. Limite: o lado que abre o circuito decide para os dois sentidos; o relay do contato com a opção desligada ainda devolve cover só se o cliente mandou preenchimento, então a resposta dele também fica sem ritmo constante.
-- A tela tem cover e ritmo constante (`SCREEN_SLOT`, 2 ms), então quem observa a rede não vê quando a imagem se mexe (salvo "Priorizar velocidade", acima). A versão anterior tinha uma tela "sem privacidade" sem cover, direto a contatos "de confiança"; foi removida, junto com a marca. O que a tela expõe agora depende só da opção "2 relays" (acima).
+- A tela tem cover e ritmo constante (`SCREEN_SLOT`, 2 ms; 1 ms com a opção "Tela em alta qualidade", que dobra a banda sem tirar o cover e não muda o que o observador vê, só o custo de upload), então quem observa a rede não vê quando a imagem se mexe (salvo "Priorizar velocidade", acima). A versão anterior tinha uma tela "sem privacidade" sem cover, direto a contatos "de confiança"; foi removida, junto com a marca. O que a tela expõe agora depende só da opção "2 relays" (acima).
 - O som do computador na transmissão de tela é **perguntado a cada transmissão** (janela "Transmitir a tela": chave de som que começa ligada, monitor para transmitir, X para cancelar; Esc cancela, Enter transmite; só transmite depois da resposta) e aumenta o que se vê e o que se entrega. Quem assiste ouve tudo o que toca na máquina de quem transmite, não só a janela mostrada (notificações, outros apps), exceto o que o próprio programa toca, e a exclusão é imperfeita: sobra um resto fraco da voz do contato. Na tela sem privacidade (sem cover), um observador da rede passa a ver também **quando há som**, pois o silêncio não é enviado; com privacidade o ritmo constante o esconde (o áudio ocupa slots de preenchimento). A janela de pergunta não mostra aviso fixo sobre isso: o texto está só no hover da chave de som (e aqui), porque a privacidade da tela já foi escolhida de forma explícita na aba Vídeo. O áudio anda no mesmo circuito cifrado da tela, sem caminho extra e sem fallback para caminho menos privado; o captador é um processo local (`gst-launch-1.0`) que só escreve no pipe do programa.
 
 ## Código que lê bytes da rede
